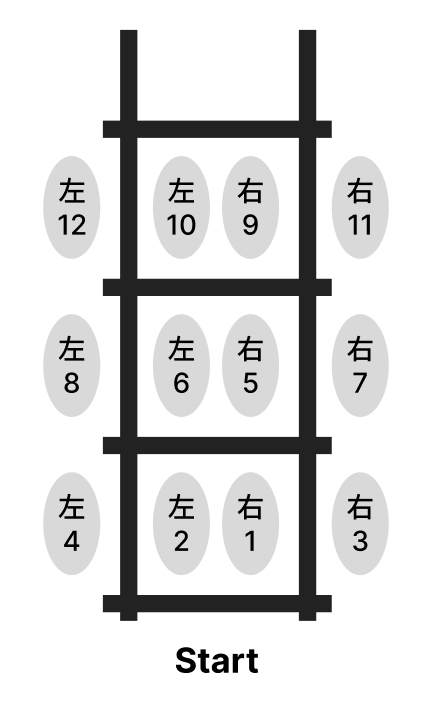
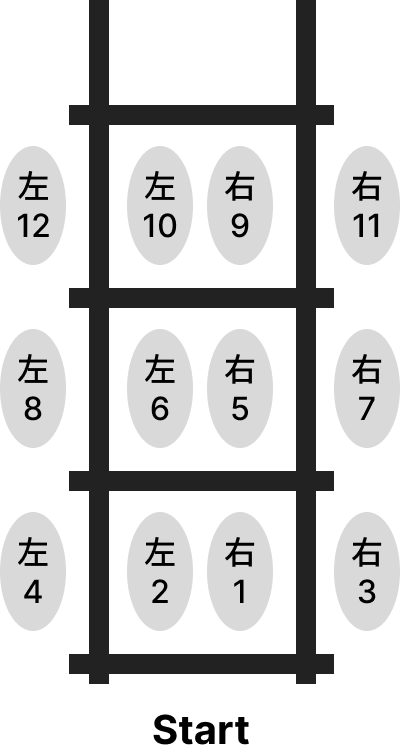
Updated 5 files via CloudCannon.

diff --git a/content/posts/Boxing-Ladder-Drills/index.md b/content/posts/Boxing-Ladder-Drills/index.md
@@ -25,16 +25,22 @@ tags:
 
 ### 2\. 進進出（3步）
 
+![boxing_ladder_drill_02](/content/posts/Boxing-Ladder-Drills/boxing_ladder_drill_02.png "boxing_ladder_drill_02")
+
 * **動作：** 每一格踩三步。
 * **順序：** 先一腳踏入格內，另一腳跟進，接著第一隻腳踏出格，循環往復。
 * **重點：** 保持輕快的節奏感
 
 ### 3\. 進進出（橫向3步）
 
+![boxing_ladder_drill_03](/content/posts/Boxing-Ladder-Drills/boxing_ladder_drill_03.png "boxing_ladder_drill_03")
+
 * **動作：** 身體橫向對著繩梯，腳步是前進和斜後方的位移。
 * **目的：** 訓練腳步在不同角度切換時的穩定性。
 
 ### 4\. 跳躍進出（雙腳跳）
+
+![boxing_ladder_drill_04](/content/posts/Boxing-Ladder-Drills/boxing_ladder_drill_04.png "boxing_ladder_drill_04")
 
 * **動作：** 類似第一種練習，但改為「跳躍」的方式。
 * **細節：** 雙腳同時跳進格內，再雙腳同時跳出。
